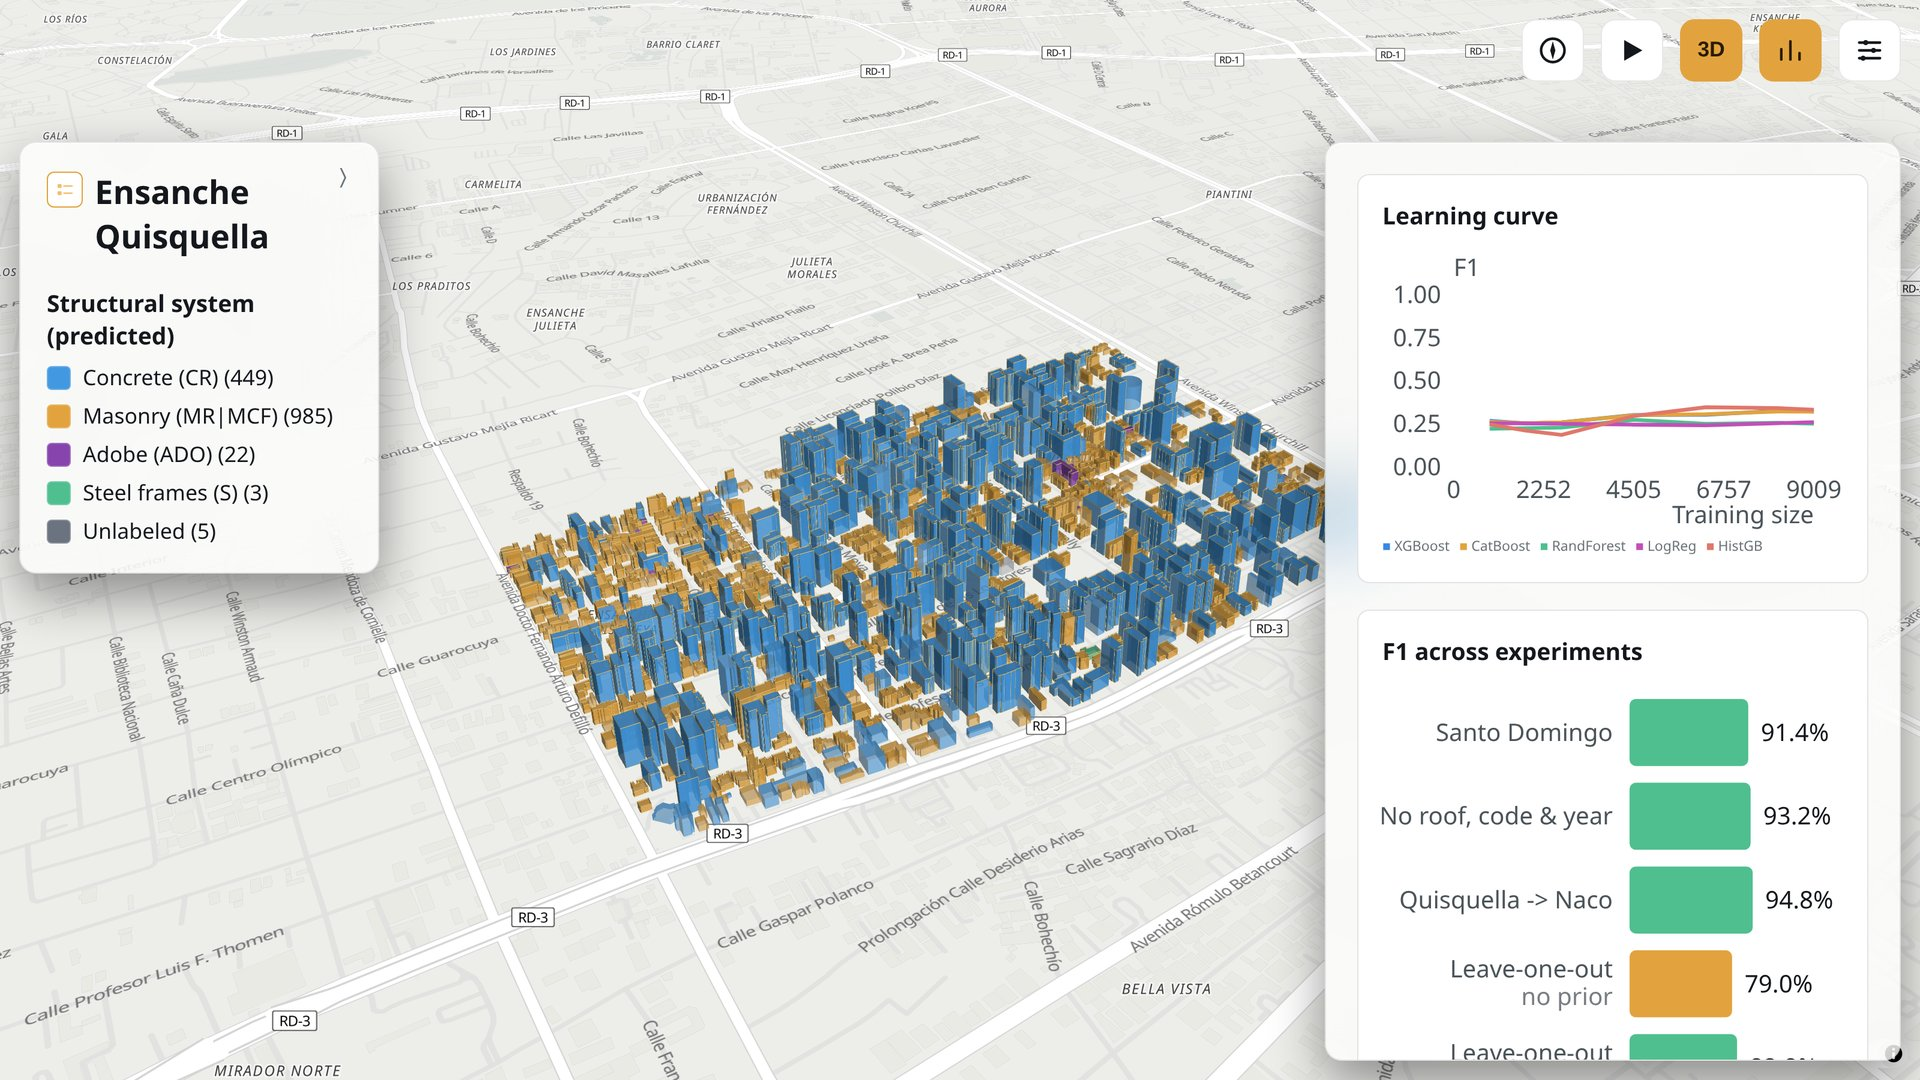
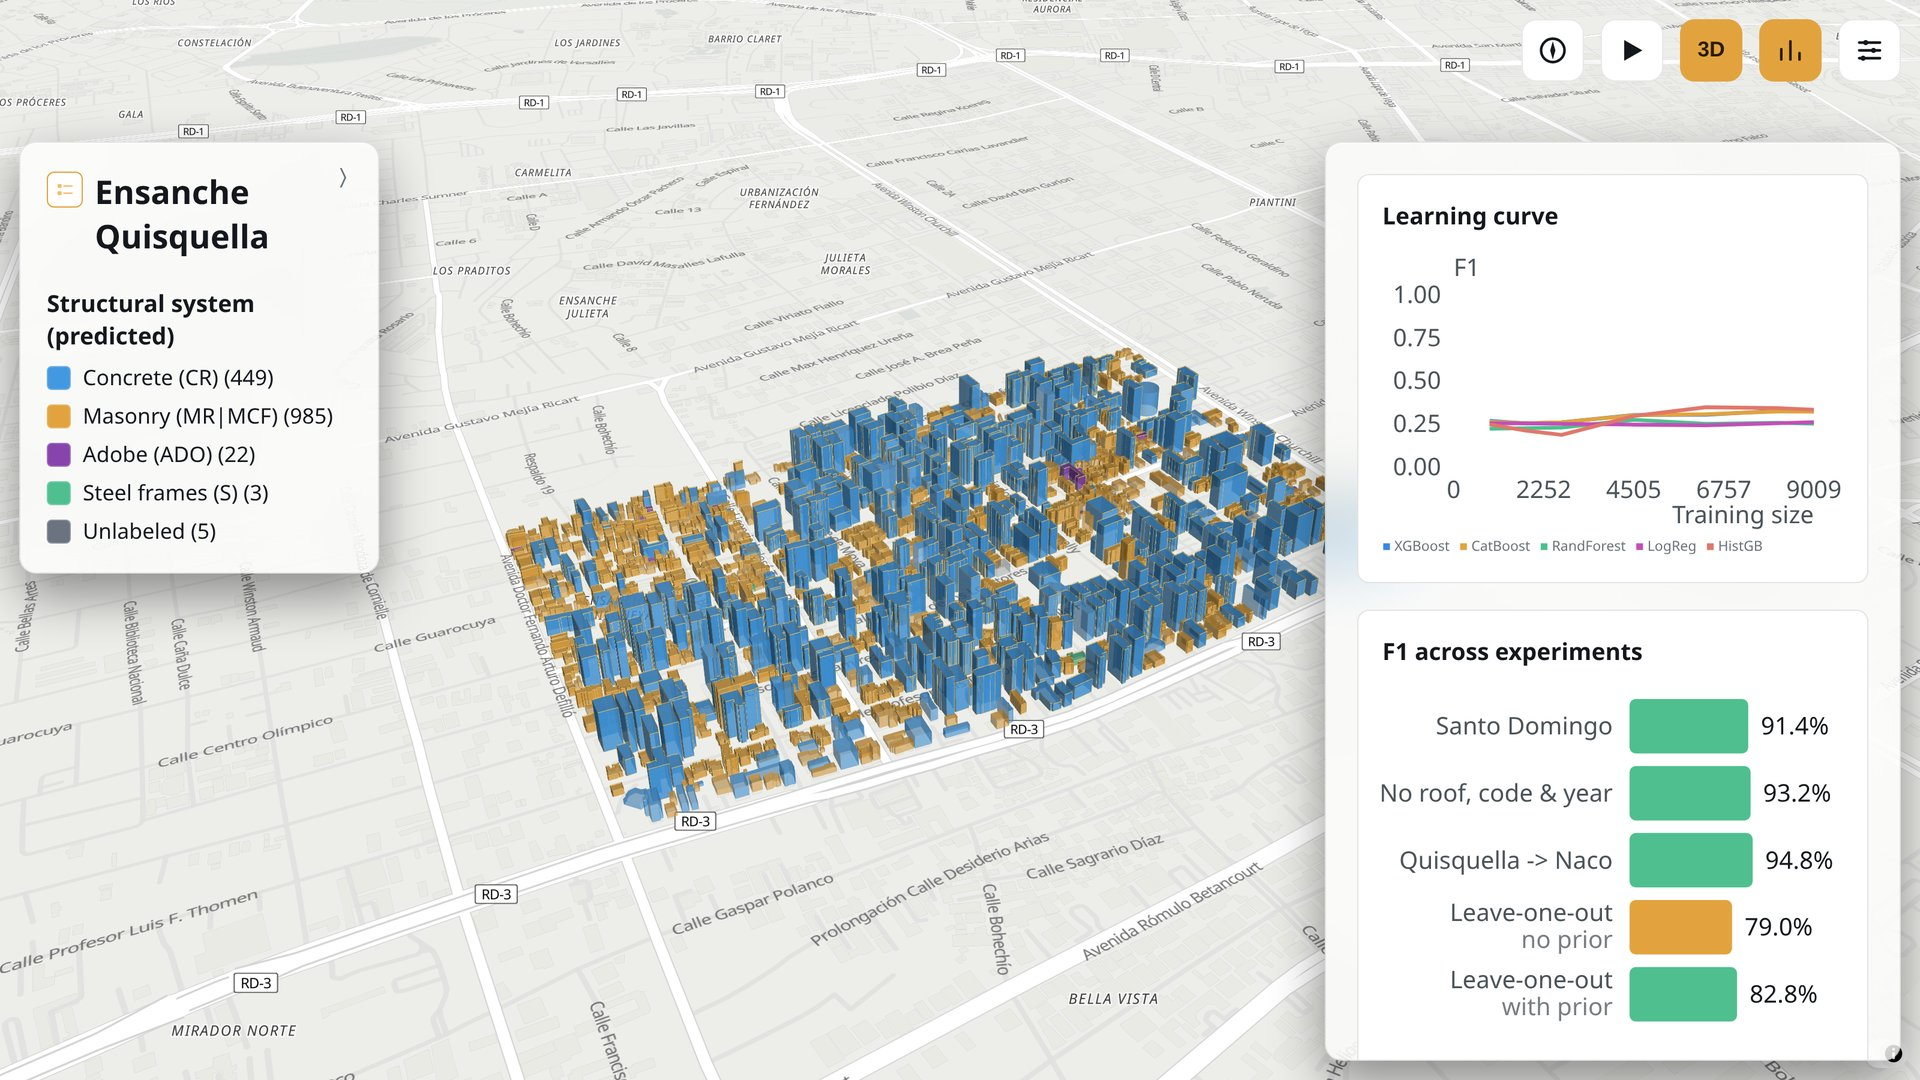
update

diff --git a/maps/structural_system/main.js b/maps/structural_system/main.js
@@ -1108,8 +1108,8 @@ async function renderExperimentCompareChart() {
   const hasSublabels = entries.some((e) => e.sublabel);
   const margin = { top: 6, right: 40, bottom: 6, left: 118 };
   const plotWidth = CHART_WIDTH - margin.left - margin.right;
-  const rowHeight = hasSublabels ? 40 : 30;
-  const barGap = 8;
+  const rowHeight = hasSublabels ? 32 : 24;
+  const barGap = 6;
   const height = margin.top + entries.length * rowHeight + margin.bottom;
 
   let bars = "";
